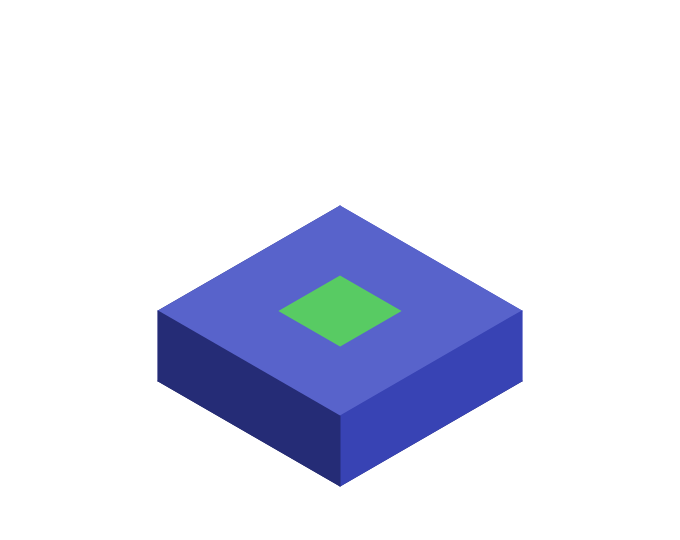
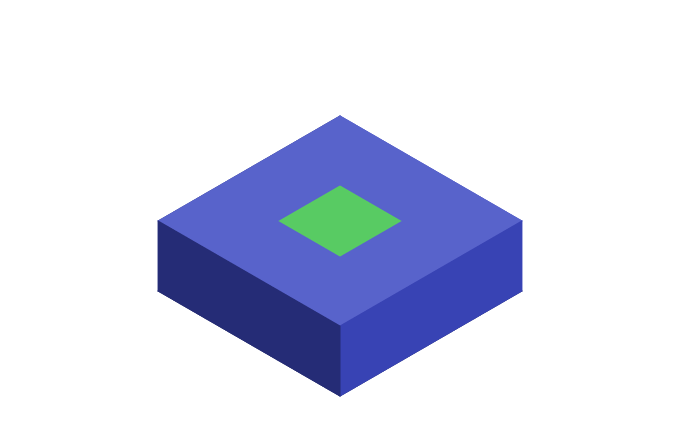
* reduce some screenshot heights

diff --git a/lib/src/androidTest/java/io/fabianterhorst/isometric/screenshot/IsometricViewTest.java b/lib/src/androidTest/java/io/fabianterhorst/isometric/screenshot/IsometricViewTest.java
@@ -33,7 +33,7 @@ public class IsometricViewTest {
         sampleOne(view);
         ViewHelpers.setupView(view)
                 .setExactWidthPx(680)
-                .setExactHeightPx(320)
+                .setExactHeightPx(220)
                 .layout();
         Screenshot.snap(view)
                 .record();
@@ -81,7 +81,7 @@ public class IsometricViewTest {
         path(view);
         ViewHelpers.setupView(view)
                 .setExactWidthPx(680)
-                .setExactHeightPx(540)
+                .setExactHeightPx(440)
                 .layout();
         Screenshot.snap(view)
                 .record();
